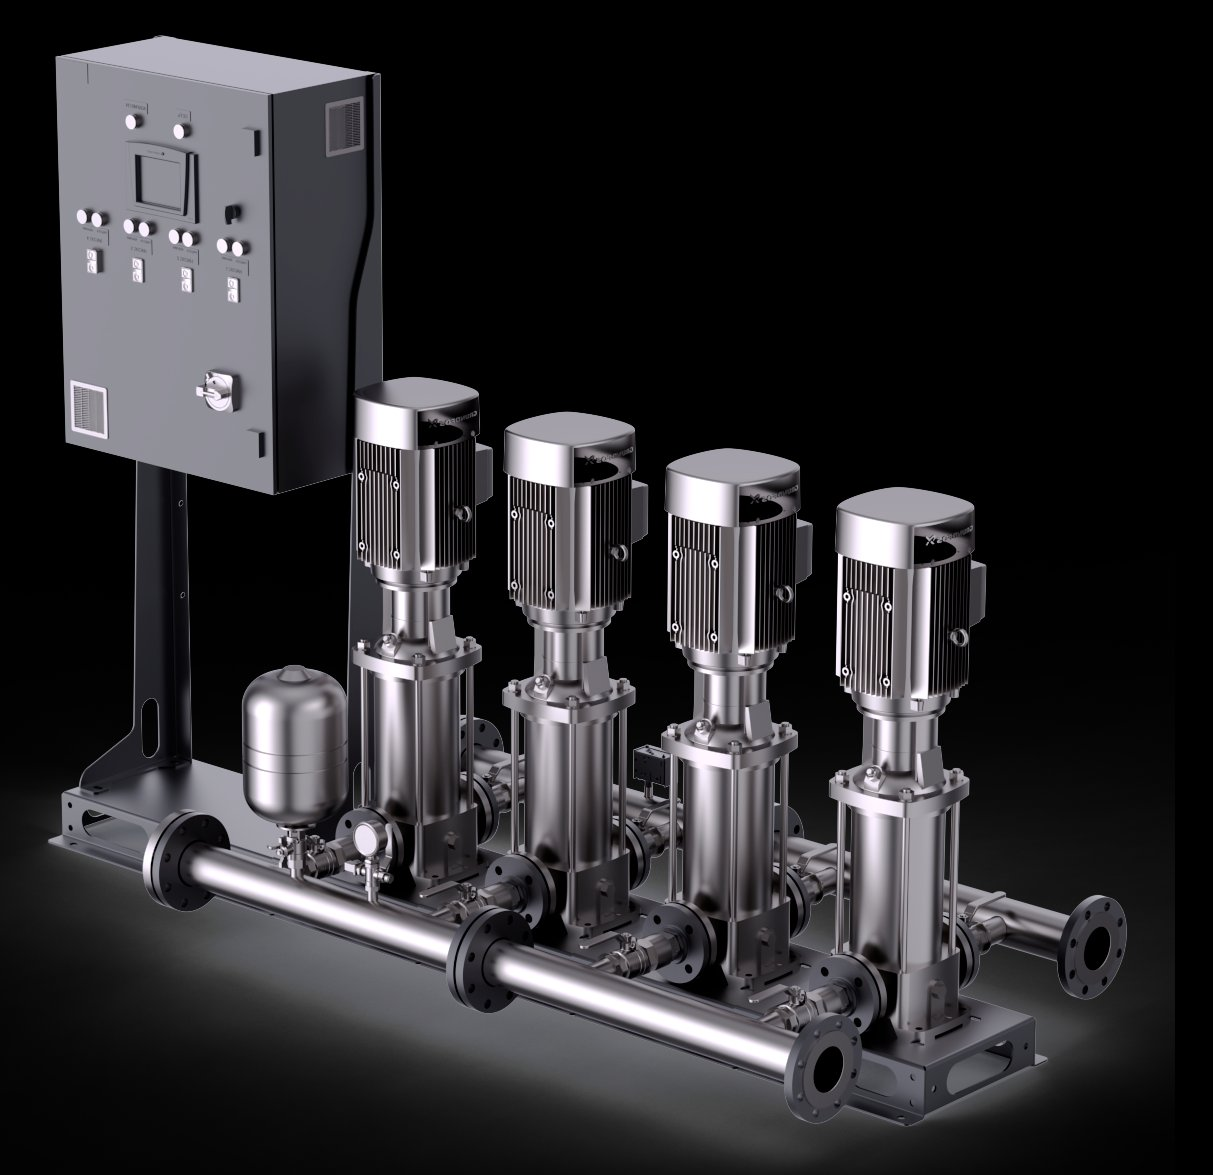
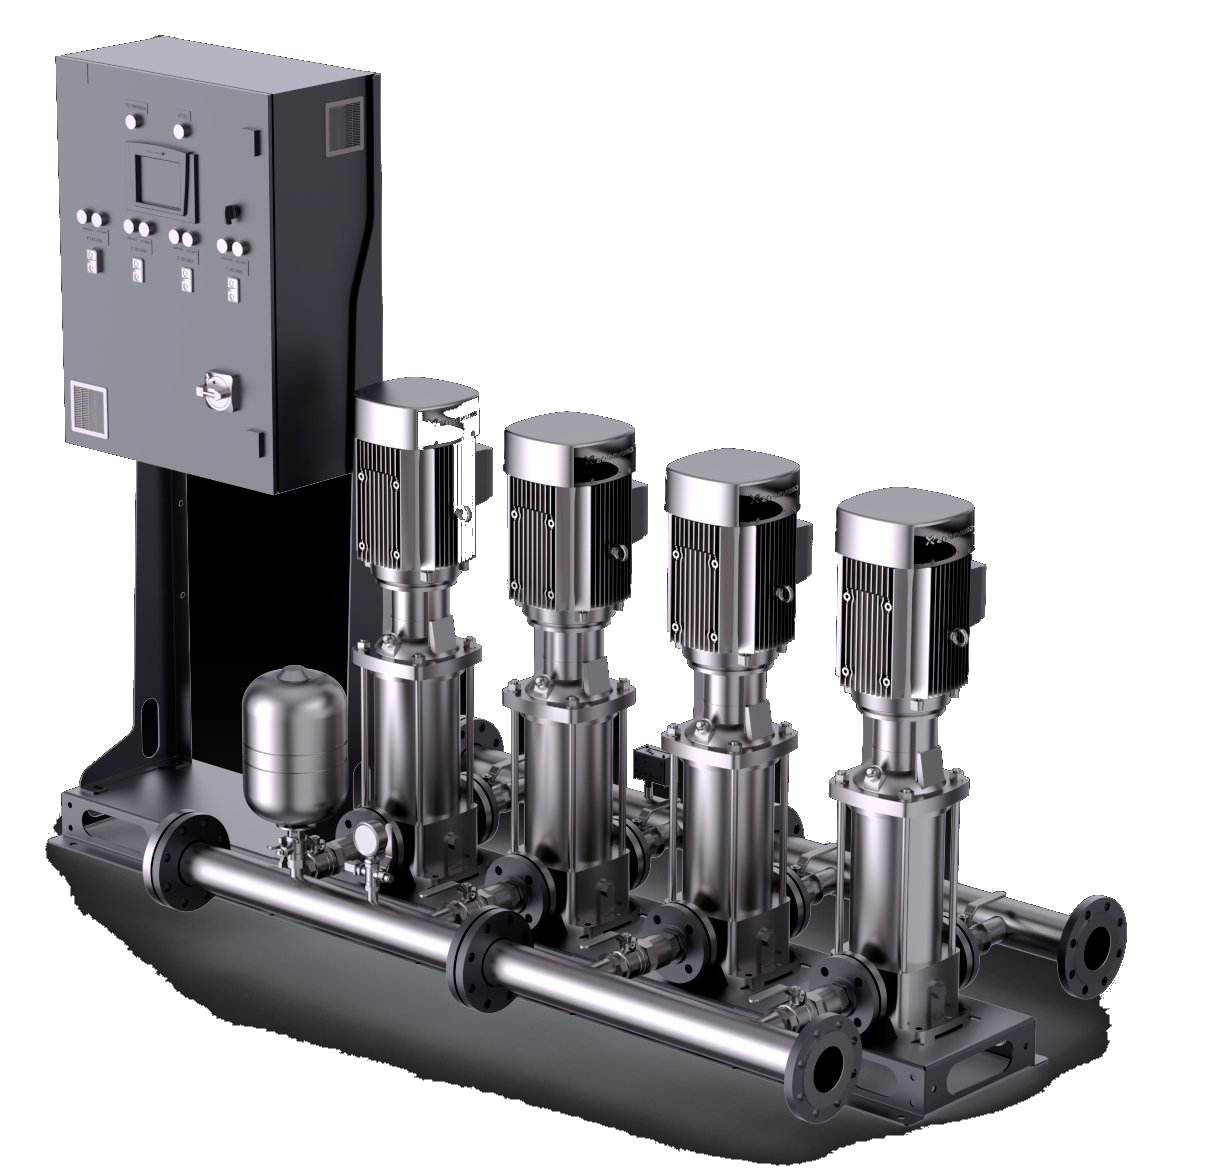
fix: hero-d — transparent bg for hvs-nu and enable pointer-events on fan wrapper

diff --git a/src/components/hero/HeroBgShowcase.tsx b/src/components/hero/HeroBgShowcase.tsx
@@ -108,9 +108,15 @@ export function HeroBgShowcase() {
       />
 
       {/* Desktop fan — sits inside the right 45% zone so it never touches
-          the headline column on the left. */}
+          the headline column on the left.
+          `pointer-events-auto` so back-product buttons can be clicked.
+          `pointer-events` is inherited, and the HeroShell wrapper sets it to
+          `none` — without this override the back buttons' own
+          `pointer-events-auto` could still behave inconsistently across
+          nested stacking contexts. Matches the pattern used by
+          HeroBgCarousel. */}
       <div
-        className="pointer-events-none absolute inset-y-0 right-0 hidden w-[45%] md:block"
+        className="pointer-events-auto absolute inset-y-0 right-0 hidden w-[45%] md:block"
         style={{ perspective: "1400px" }}
       >
         {/* Subtle hint. Top-right of the zone, tiny mono — easy to miss on
